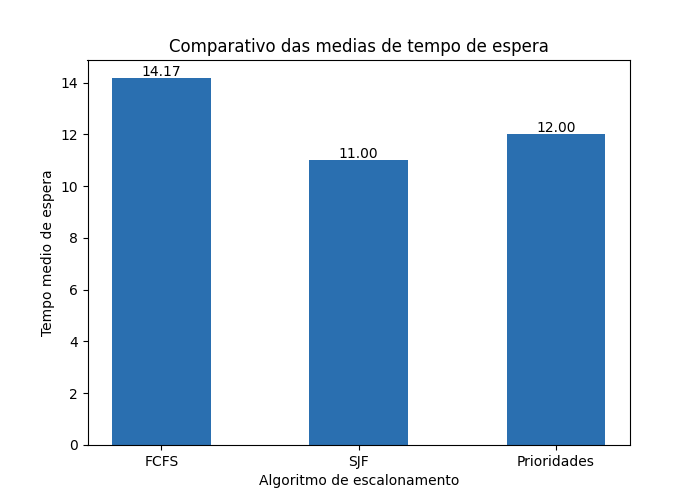
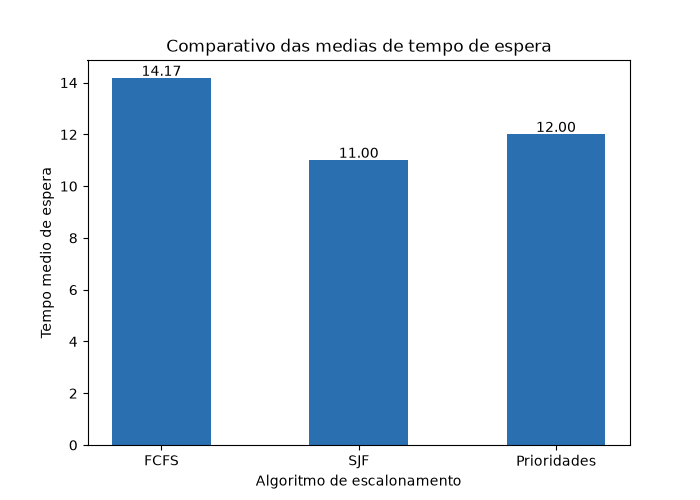
last fix

diff --git a/algoritmoEscalonamento.py b/algoritmoEscalonamento.py
@@ -43,14 +43,11 @@ class ThreadFCFS(threading.Thread):
         self.media_espera = 0.0
 
     def escalonar(self):
-        # atende na ordem em que os processos chegaram
         fila_aptos = sorted(self.lista_processos, key=pegar_tempo_chegada)
-        print(fila_aptos)
         tempo_relogio = 0
         soma_tempos_espera = 0
 
         for processo in fila_aptos:
-            print(processo)
             if tempo_relogio < processo.tempo_chegada:
                 tempo_relogio = processo.tempo_chegada
 
@@ -71,7 +68,6 @@ class ThreadFCFS(threading.Thread):
         print(f'Media de espera FCFS: {self.media_espera:.2f}\n')
 
 
-# Thread algoritmo SJF (SHORTEST JOB FIRST)
 class ThreadSJF(threading.Thread):
 
     def __init__(self, lista_processos):
@@ -87,18 +83,15 @@ class ThreadSJF(threading.Thread):
         soma_tempos_espera = 0
 
         while len(processos_pendentes) > 0:
-            # fila de aptos: processos que ja chegaram
             fila_aptos = []
             for processo in processos_pendentes:
                 if processo.tempo_chegada <= tempo_relogio:
                     fila_aptos.append(processo)
 
-            # nenhum processo chegou ainda, o relogio avanca
             if len(fila_aptos) == 0:
                 tempo_relogio += 1
                 continue
 
-            # escolhe o processo com o menor tempo de cpu
             processo_escolhido = fila_aptos[0]
             for processo in fila_aptos:
                 if processo.tempo_cpu < processo_escolhido.tempo_cpu:
@@ -121,8 +114,6 @@ class ThreadSJF(threading.Thread):
         self.media_espera = self.escalonar()
         print(f'Media de espera SJF: {self.media_espera:.2f}\n')
 
-
-# Thread algoritmo de PRIORIDADES (menor numero = maior prioridade)
 class ThreadPrioridades(threading.Thread):
 
     def __init__(self, lista_processos):
@@ -138,18 +129,15 @@ class ThreadPrioridades(threading.Thread):
         soma_tempos_espera = 0
 
         while len(processos_pendentes) > 0:
-            # fila de aptos: processos que ja chegaram
             fila_aptos = []
             for processo in processos_pendentes:
                 if processo.tempo_chegada <= tempo_relogio:
                     fila_aptos.append(processo)
 
-            # nenhum processo chegou ainda, o relogio avanca
             if len(fila_aptos) == 0:
                 tempo_relogio += 1
                 continue
 
-            # escolhe o processo com a maior prioridade (menor numero)
             processo_escolhido = fila_aptos[0]
             for processo in fila_aptos:
                 if processo.prioridade < processo_escolhido.prioridade:
@@ -173,7 +161,6 @@ class ThreadPrioridades(threading.Thread):
         print(f'Media de espera Prioridades: {self.media_espera:.2f}\n')
 
 
-# Funcao principal
 def main():
     lista_processos = ler_processos_csv(CAMINHO_CSV)
 
@@ -195,7 +182,6 @@ def main():
     thread_prioridades.start()
     thread_prioridades.join()
 
-    # saida do simulador: media de espera de cada algoritmo
     nomes_algoritmos = ['FCFS', 'SJF', 'Prioridades']
     medias_espera = [thread_fcfs.media_espera,
                      thread_sjf.media_espera,
@@ -208,5 +194,4 @@ def main():
     gerar_grafico(nomes_algoritmos, medias_espera)
 
 
-# Ponto de entrada do programa
 main()

diff --git a/algoritmoCanibal.py b/algoritmoCanibal.py
@@ -1,20 +1,13 @@
-'''
-Problema do Jantar dos Canibais usando threads e semaforos.
-N canibais comem de uma travessa que comporta M porcoes.
-Quando a travessa esvazia, um canibal acorda o cozinheiro,
-que coloca mais M porcoes na travessa.
-'''
+
 
 import threading
 import time
 import random
 
-QUANTIDADE_CANIBAIS = 5    # N
-CAPACIDADE_TRAVESSA = 3    # M
-DURACAO_JANTAR = 20        # segundos que o programa fica rodando
+QUANTIDADE_CANIBAIS = 5 
+CAPACIDADE_TRAVESSA = 3 
+DURACAO_JANTAR = 4 
 
-
-# Classe que representa a travessa compartilhada
 class Travessa:
 
     def __init__(self, capacidade_porcoes):
@@ -22,9 +15,7 @@ class Travessa:
         self.porcoes_disponiveis = 0
 
         self.mutex_travessa = threading.Semaphore(1)
-        # usado para acordar o cozinheiro quando a travessa esta vazia
         self.semaforo_travessa_vazia = threading.Semaphore(0)
-        # usado para avisar o canibal que a travessa foi enchida
         self.semaforo_travessa_cheia = threading.Semaphore(0)
 
     def servir_porcao(self, nome_canibal):
@@ -49,7 +40,6 @@ class Travessa:
         self.semaforo_travessa_cheia.release()
 
 
-# Thread que representa um canibal
 class Canibal(threading.Thread):
 
     def __init__(self, nome_canibal, travessa):
@@ -63,13 +53,11 @@ class Canibal(threading.Thread):
         time.sleep(random.uniform(0.5, 2))
 
     def run(self):
-        # longo jantar: o canibal se serve e come continuamente
         while True:
             self.travessa.servir_porcao(self.nome_canibal)
             self.comer()
 
 
-# Thread que representa o cozinheiro
 class Cozinheiro(threading.Thread):
 
     def __init__(self, travessa):
@@ -78,12 +66,10 @@ class Cozinheiro(threading.Thread):
         self.daemon = True
 
     def run(self):
-        # o cozinheiro dorme ate ser acordado e entao enche a travessa
         while True:
             self.travessa.encher_travessa()
 
 
-# Funcao principal
 def main():
     travessa = Travessa(CAPACIDADE_TRAVESSA)
 
@@ -98,5 +84,4 @@ def main():
     print('Fim do jantar')
 
 
-# Ponto de entrada do programa
 main()

diff --git a/graficoEscalonamento.py b/graficoEscalonamento.py
@@ -1,8 +1,3 @@
-'''
-Gera o grafico comparativo das medias de espera
-de cada algoritmo de escalonamento.
-'''
-
 import matplotlib.pyplot as plt
 
 
@@ -11,7 +6,6 @@ def gerar_grafico(nomes_algoritmos, medias_espera):
 
     barras = plt.bar(nomes_algoritmos, medias_espera, color='#2a6fb0', width=0.5)
 
-    # escreve o valor da media em cima de cada barra
     for barra in barras:
         altura = barra.get_height()
         posicao_x = barra.get_x() + barra.get_width() / 2
